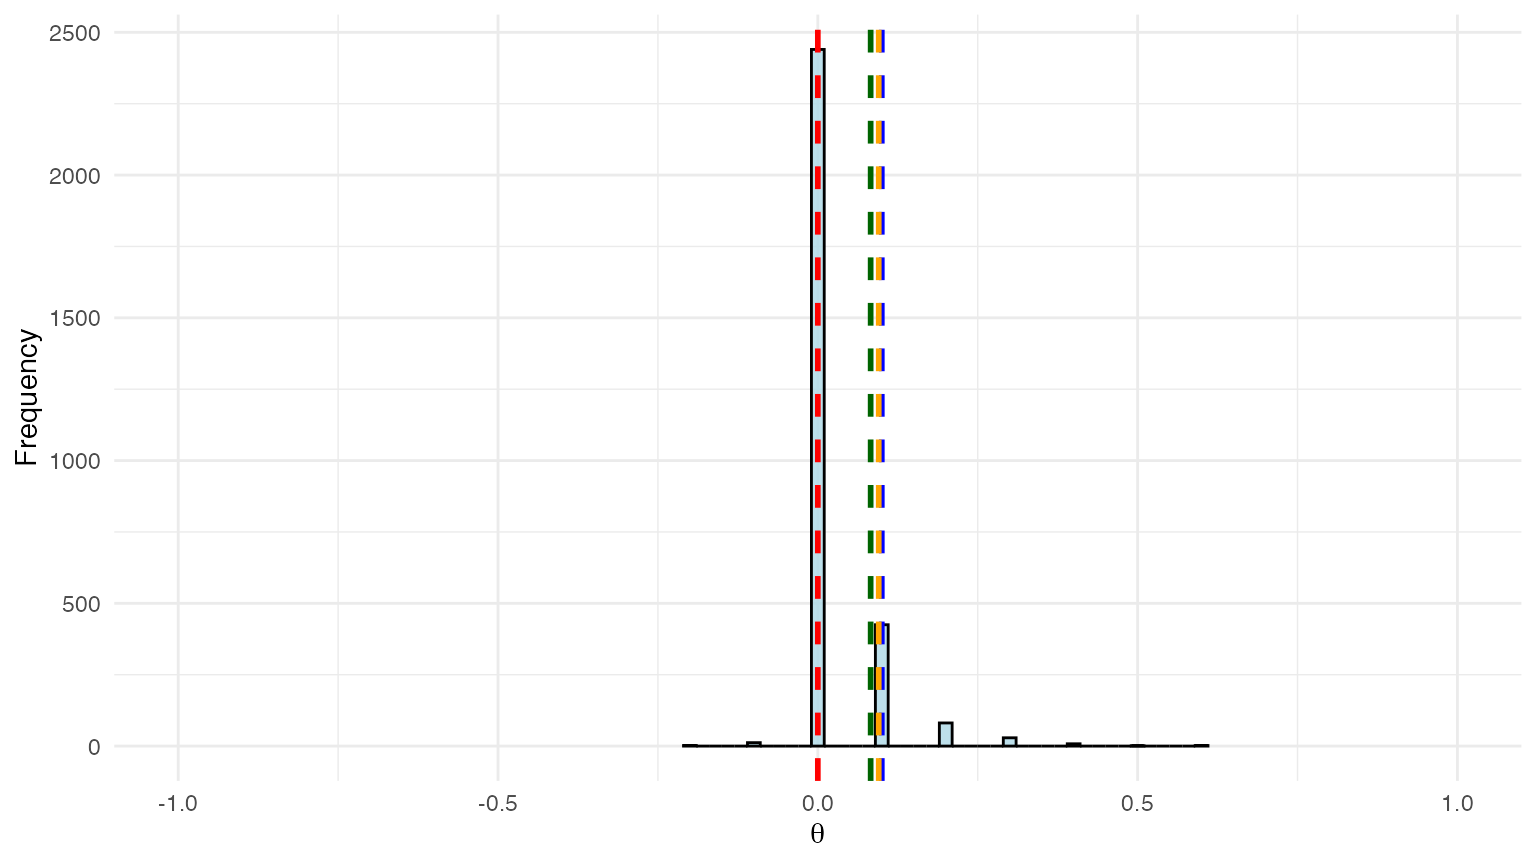
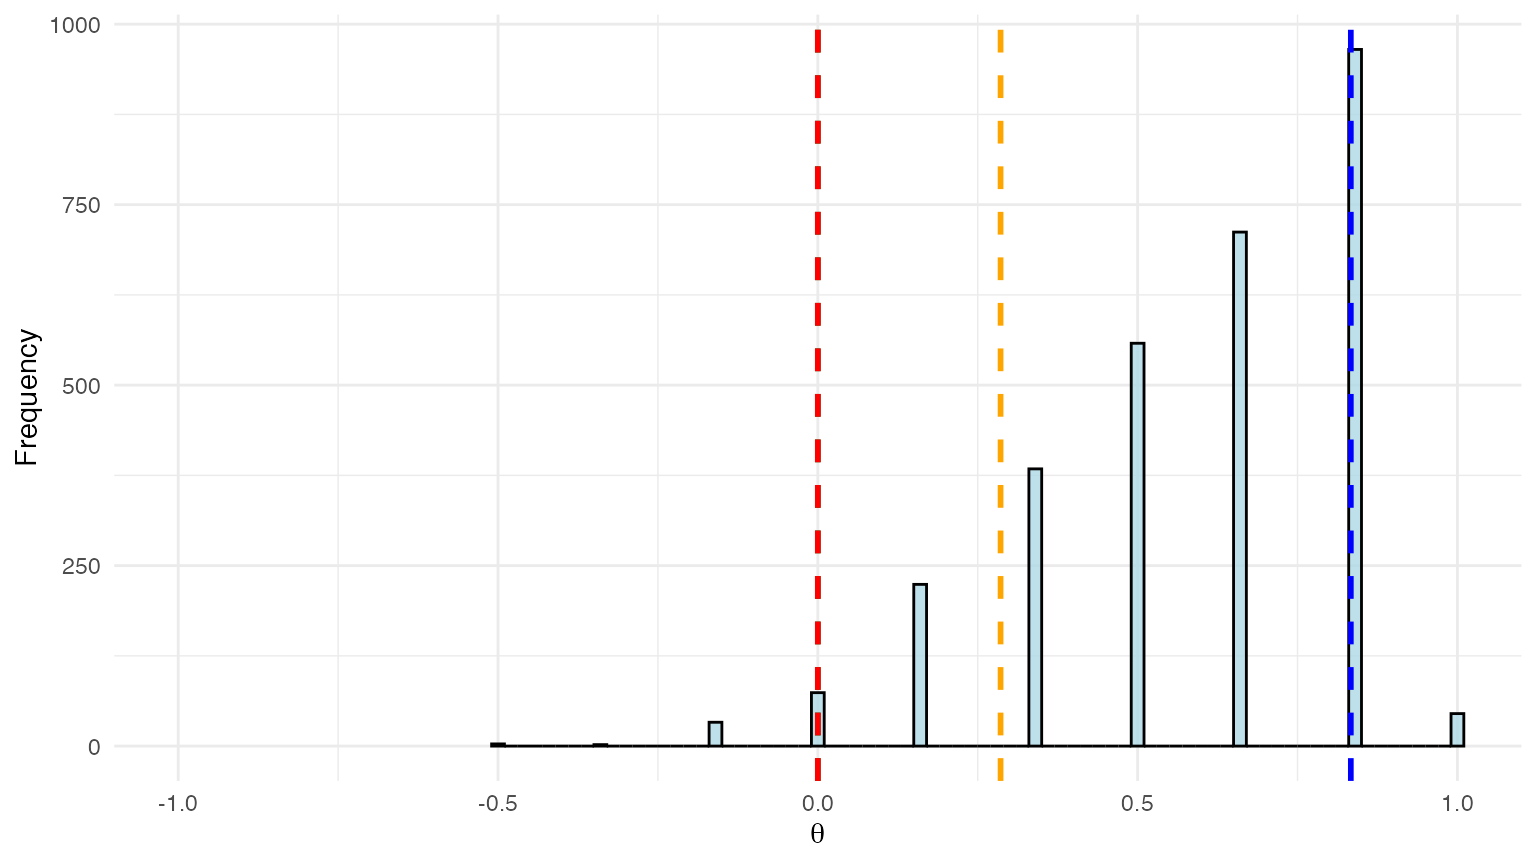
update

diff --git a/docs/articles/BSET_tutorial.html b/docs/articles/BSET_tutorial.html
@@ -156,7 +156,7 @@ defined in Parast et al. (2024) (i.e.: the setting where the surrogate
 is perfect and covariates are not included):</p>
 <div class="sourceCode" id="cb4"><pre class="downlit sourceCode r">
 <code class="sourceCode R"><span><span class="co"># Sample size</span></span>
-<span><span class="va">n</span> <span class="op">&lt;-</span> <span class="fl">10</span></span>
+<span><span class="va">n</span> <span class="op">&lt;-</span> <span class="fl">6</span></span>
 <span></span>
 <span><span class="co"># Treatment assignment probability</span></span>
 <span><span class="va">p</span> <span class="op">&lt;-</span> <span class="fl">0.5</span></span>
@@ -187,7 +187,7 @@ in Carlotti and Parast (2026) (i.e.: the setting where the surrogate is
 useful and covariates are included):</p>
 <div class="sourceCode" id="cb5"><pre class="downlit sourceCode r">
 <code class="sourceCode R"><span><span class="co"># Sample size</span></span>
-<span><span class="va">n</span> <span class="op">&lt;-</span> <span class="fl">10</span></span>
+<span><span class="va">n</span> <span class="op">&lt;-</span> <span class="fl">6</span></span>
 <span></span>
 <span><span class="co"># Treatment assignment probability</span></span>
 <span><span class="va">p</span> <span class="op">&lt;-</span> <span class="fl">0.5</span></span>
@@ -275,12 +275,12 @@ in the two settings.</caption>
 <tr class="odd">
 <td align="center">No X (Perfect Surrogate)</td>
 <td align="center">0.000</td>
-<td align="center">0</td>
+<td align="center">0.167</td>
 </tr>
 <tr class="even">
 <td align="center">Binary X</td>
-<td align="center">0.286</td>
-<td align="center">0</td>
+<td align="center">0.875</td>
+<td align="center">0.000</td>
 </tr>
 </tbody>
 </table>
@@ -328,23 +328,23 @@ al. (2024).</caption>
 <tbody>
 <tr class="odd">
 <td align="center">Useless surrogate</td>
-<td align="center">0.560</td>
-<td align="center">0.4</td>
+<td align="center">0.458</td>
+<td align="center">0.5</td>
 </tr>
 <tr class="even">
 <td align="center">Perfect surrogate</td>
-<td align="center">0.062</td>
-<td align="center">0.0</td>
+<td align="center">0.042</td>
+<td align="center">0.1</td>
 </tr>
 <tr class="odd">
 <td align="center">Imperfect surrogate</td>
-<td align="center">0.292</td>
-<td align="center">0.4</td>
+<td align="center">0.083</td>
+<td align="center">0.1</td>
 </tr>
 <tr class="even">
 <td align="center">Misspecified model</td>
-<td align="center">0.000</td>
-<td align="center">0.1</td>
+<td align="center">0.238</td>
+<td align="center">0.2</td>
 </tr>
 </tbody>
 </table>
@@ -375,7 +375,7 @@ for the simulation settings considered in Carlotti and Parast
 </tr></thead>
 <tbody><tr class="odd">
 <td align="center">Perfect surrogate</td>
-<td align="center">0.095</td>
+<td align="center">0.286</td>
 <td align="center">0</td>
 </tr></tbody>
 </table>
@@ -405,7 +405,7 @@ hypothesis
 can be computed as follows:</p>
 <div class="sourceCode" id="cb9"><pre class="downlit sourceCode r">
 <code class="sourceCode R"><span><span class="co"># Sample size</span></span>
-<span><span class="va">n</span> <span class="op">&lt;-</span> <span class="fl">10</span></span>
+<span><span class="va">n</span> <span class="op">&lt;-</span> <span class="fl">6</span></span>
 <span></span>
 <span><span class="co"># Hypothesized value of V_S under the null</span></span>
 <span><span class="va">V_S_zero</span> <span class="op">&lt;-</span> <span class="fl">0.5</span></span>
@@ -453,8 +453,8 @@ corresponding to a specified Type I error rate
 <p>For example, for
 <math display="inline" xmlns="http://www.w3.org/1998/Math/MathML"><semantics><mrow><mi>α</mi><mo>=</mo><mn>0.05</mn></mrow><annotation encoding="application/x-tex">\alpha = 0.05</annotation></semantics></math>
 we have</p>
-<p><math display="block" xmlns="http://www.w3.org/1998/Math/MathML"><semantics><mrow><mi>B</mi><msub><mi>F</mi><mrow><mi>n</mi><mo>,</mo><mi>α</mi></mrow></msub><mo>=</mo><mn>4.002</mn><mi>.</mi></mrow><annotation encoding="application/x-tex">
-  BF_{n, \alpha} = 4.002.
+<p><math display="block" xmlns="http://www.w3.org/1998/Math/MathML"><semantics><mrow><mi>B</mi><msub><mi>F</mi><mrow><mi>n</mi><mo>,</mo><mi>α</mi></mrow></msub><mo>=</mo><mn>2.857</mn><mi>.</mi></mrow><annotation encoding="application/x-tex">
+  BF_{n, \alpha} = 2.857.
 </annotation></semantics></math></p>
 <p>Once we have the value of
 <math display="inline" xmlns="http://www.w3.org/1998/Math/MathML"><semantics><mrow><mi>B</mi><msub><mi>F</mi><mrow><mi>n</mi><mo>,</mo><mi>α</mi></mrow></msub></mrow><annotation encoding="application/x-tex">BF_{n, \alpha}</annotation></semantics></math>,
@@ -492,8 +492,8 @@ as follows:</p>
 <span>  root_tolerance <span class="op">=</span> <span class="fl">1e-16</span></span>
 <span><span class="op">)</span><span class="op">$</span><span class="va">V_S_star</span></span></code></pre></div>
 <p>Then, we have that</p>
-<p><math display="block" xmlns="http://www.w3.org/1998/Math/MathML"><semantics><mrow><msub><mi>v</mi><mi>S</mi></msub><mo>=</mo><mn>0.917</mn><mi>.</mi></mrow><annotation encoding="application/x-tex">
-  v_S = 0.917.
+<p><math display="block" xmlns="http://www.w3.org/1998/Math/MathML"><semantics><mrow><msub><mi>v</mi><mi>S</mi></msub><mo>=</mo><mn>0.963</mn><mi>.</mi></mrow><annotation encoding="application/x-tex">
+  v_S = 0.963.
 </annotation></semantics></math></p>
 <p>Finally, the validation threshold
 <math display="inline" xmlns="http://www.w3.org/1998/Math/MathML"><semantics><mi>η</mi><annotation encoding="application/x-tex">\eta</annotation></semantics></math>
@@ -519,8 +519,8 @@ surrogate is perfect and covariates are not included).</p>
 <span><span class="co"># Compute the validation threshold eta</span></span>
 <span><span class="va">eta</span> <span class="op">&lt;-</span> <span class="fu"><a href="https://rdrr.io/r/base/Extremes.html" class="external-link">max</a></span><span class="op">(</span><span class="va">v_Y</span> <span class="op">-</span> <span class="va">V_S_star</span>, <span class="fl">0</span><span class="op">)</span></span></code></pre></div>
 <p>In this case, we have that</p>
-<p><math display="block" xmlns="http://www.w3.org/1998/Math/MathML"><semantics><mrow><mi>η</mi><mo>=</mo><mn>0</mn><mi>.</mi></mrow><annotation encoding="application/x-tex">
-  \eta = 0.
+<p><math display="block" xmlns="http://www.w3.org/1998/Math/MathML"><semantics><mrow><mi>η</mi><mo>=</mo><mn>0.037</mn><mi>.</mi></mrow><annotation encoding="application/x-tex">
+  \eta = 0.037.
 </annotation></semantics></math></p>
 </div>
 <div class="section level2">
@@ -656,16 +656,18 @@ covariates as follows:</p>
 from the BSET procedure without adjusting for covariates is shown in
 Figure @ref(fig:BSET-no-X-plot).</p>
 <div class="figure" style="text-align: center">
-<img src="BSET_tutorial_files/figure-html/BSET-no-X-plot-1.png" class="r-plt" alt="Posterior distribution of $\theta$ from the BSET procedure without adjusting for covariates. The blue vertical line indicates the upper bound of the 95% credible interval, the green vertical line indicates value of the validation threshold $\eta$, the orange vertical line indicates the true value of $\delta$, and the red vertical line indicates the true value of $\theta$." width="768"><p class="caption">
+<img src="BSET_tutorial_files/figure-html/BSET-no-X-plot-1.png" class="r-plt" alt="Posterior distribution of $\theta$ from the BSET procedure without adjusting for covariates. The &lt;span style='color:blue'&gt;blue&lt;/span&gt; vertical line indicates the upper bound of the 95% credible interval, the &lt;span style='color:green'&gt;green&lt;/span&gt; vertical line indicates value of the validation threshold $\eta$, the &lt;span style='color:orange'&gt;orange&lt;/span&gt; vertical line indicates the true value of $\delta$, and the &lt;span style='color:red'&gt;red&lt;/span&gt; vertical line indicates the true value of $\theta$." width="768"><p class="caption">
 Posterior distribution of
 <math display="inline" xmlns="http://www.w3.org/1998/Math/MathML"><semantics><mi>θ</mi><annotation encoding="application/x-tex">\theta</annotation></semantics></math>
-from the BSET procedure without adjusting for covariates. The blue
-vertical line indicates the upper bound of the 95% credible interval,
-the green vertical line indicates value of the validation threshold
+from the BSET procedure without adjusting for covariates. The <span style="color:blue">blue</span> vertical line indicates the upper bound
+of the 95% credible interval, the <span style="color:green">green</span>
+vertical line indicates value of the validation threshold
 <math display="inline" xmlns="http://www.w3.org/1998/Math/MathML"><semantics><mi>η</mi><annotation encoding="application/x-tex">\eta</annotation></semantics></math>,
-the orange vertical line indicates the true value of
+the <span style="color:orange">orange</span> vertical line indicates the
+true value of
 <math display="inline" xmlns="http://www.w3.org/1998/Math/MathML"><semantics><mi>δ</mi><annotation encoding="application/x-tex">\delta</annotation></semantics></math>,
-and the red vertical line indicates the true value of
+and the <span style="color:red">red</span> vertical line indicates the
+true value of
 <math display="inline" xmlns="http://www.w3.org/1998/Math/MathML"><semantics><mi>θ</mi><annotation encoding="application/x-tex">\theta</annotation></semantics></math>.
 </p>
 </div>
@@ -772,13 +774,12 @@ follows:</p>
 from the BSET procedure adjusting for covariates is shown in Figure
 @ref(fig:BSET-X-plot).</p>
 <div class="figure" style="text-align: center">
-<img src="BSET_tutorial_files/figure-html/BSET-X-plot-1.png" class="r-plt" alt="Posterior distribution of $\theta$ from the BSET procedure. The &lt;span style='color:blue'&gt;blue&lt;/span&gt; vertical line indicates the upper bound of the 95% credible interval, the &lt;span style='color:green'&gt;green&lt;/span&gt; vertical line indicates the validation threshold $\eta$, the &lt;span style='color:orange'&gt;orange&lt;/span&gt; vertical line indicates the true value of $\delta$, and the &lt;span style='color:red'&gt;red&lt;/span&gt; vertical line indicates the true value of $\theta$." width="768"><p class="caption">
+<img src="BSET_tutorial_files/figure-html/BSET-X-plot-1.png" class="r-plt" alt="Posterior distribution of $\theta$ from the BSET procedure adjusting for covariates. The &lt;span style='color:blue'&gt;blue&lt;/span&gt; vertical line indicates the upper bound of the 95% credible interval, the &lt;span style='color:green'&gt;green&lt;/span&gt; vertical line indicates value of the validation threshold $\eta$, the &lt;span style='color:orange'&gt;orange&lt;/span&gt; vertical line indicates the true value of $\delta$, and the &lt;span style='color:red'&gt;red&lt;/span&gt; vertical line indicates the true value of $\theta$." width="768"><p class="caption">
 Posterior distribution of
 <math display="inline" xmlns="http://www.w3.org/1998/Math/MathML"><semantics><mi>θ</mi><annotation encoding="application/x-tex">\theta</annotation></semantics></math>
-from the BSET procedure. The <span style="color:blue">blue</span>
-vertical line indicates the upper bound of the 95% credible interval,
-the <span style="color:green">green</span> vertical line indicates the
-validation threshold
+from the BSET procedure adjusting for covariates. The <span style="color:blue">blue</span> vertical line indicates the upper bound
+of the 95% credible interval, the <span style="color:green">green</span>
+vertical line indicates value of the validation threshold
 <math display="inline" xmlns="http://www.w3.org/1998/Math/MathML"><semantics><mi>η</mi><annotation encoding="application/x-tex">\eta</annotation></semantics></math>,
 the <span style="color:orange">orange</span> vertical line indicates the
 true value of

diff --git a/docs/index.html b/docs/index.html
@@ -74,7 +74,7 @@
 <!-- badges: end -->
 <p><code>BSET</code> (Bayesian Surrogate Evaluation Test) is an <code>R</code> package for assessing the validity of surrogate markers in clinical trials. It provides hypothesis testing tools to evaluate whether a surrogate can reliably estimate the causal effect of a treatment on a primary outcome. The package implements the imputation-based Bayesian methodology of Carlotti and Parast (2026), extending the frequentist rank-based approach of Parast et al. (2024). BSET addresses key limitations of the frequentist method, including the lack of causal interpretability and the inability to adjust for covariates in the estimation process.</p>
 <p>The package supports Bayesian testing both with and without baseline covariates. Additionally, it includes comprehensive simulation suites to replicate studies from both papers, enabling performance comparisons between Bayesian and frequentist approaches across diverse clinical scenarios.</p>
-<p>For a detailed walkthrough and examples of the imputation-based methodology, please visit the <a href="https://htmlpreview.github.io/?https://github.com/PietroCarlotti/BSET/blob/main/BSET_tutorial.html" class="external-link">BSET Tutorial</a>.</p>
+<p>For a detailed walkthrough and examples of the imputation-based methodology, please visit the <a href="https://htmlpreview.github.io/?https://github.com/PietroCarlotti/BSET/blob/main/docs/articles/BSET_tutorial.html" class="external-link">BSET Tutorial</a>.</p>
 </div>
   </div>
 
